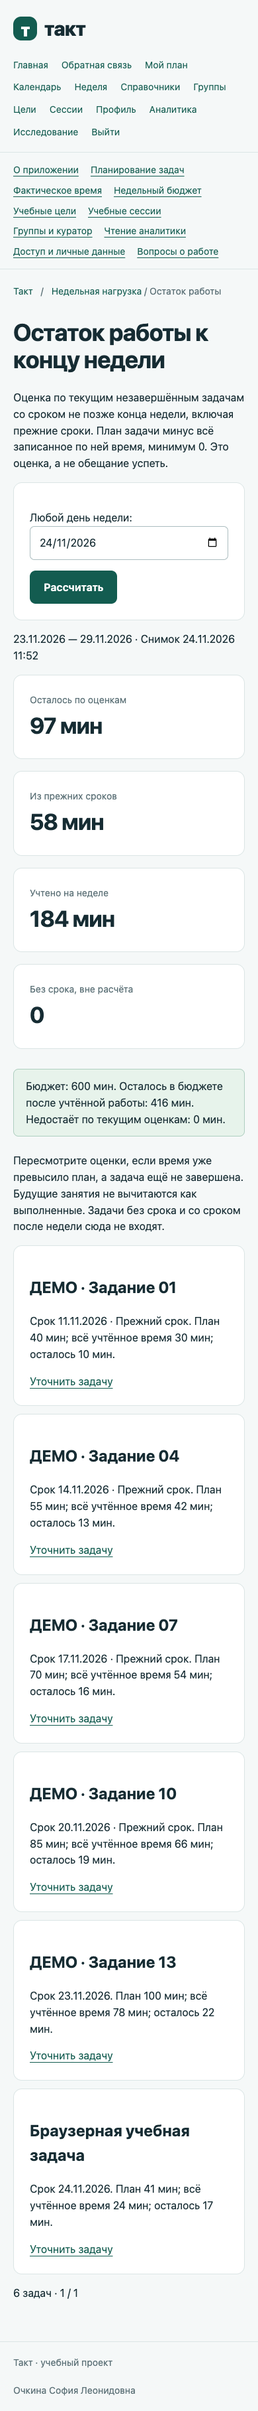
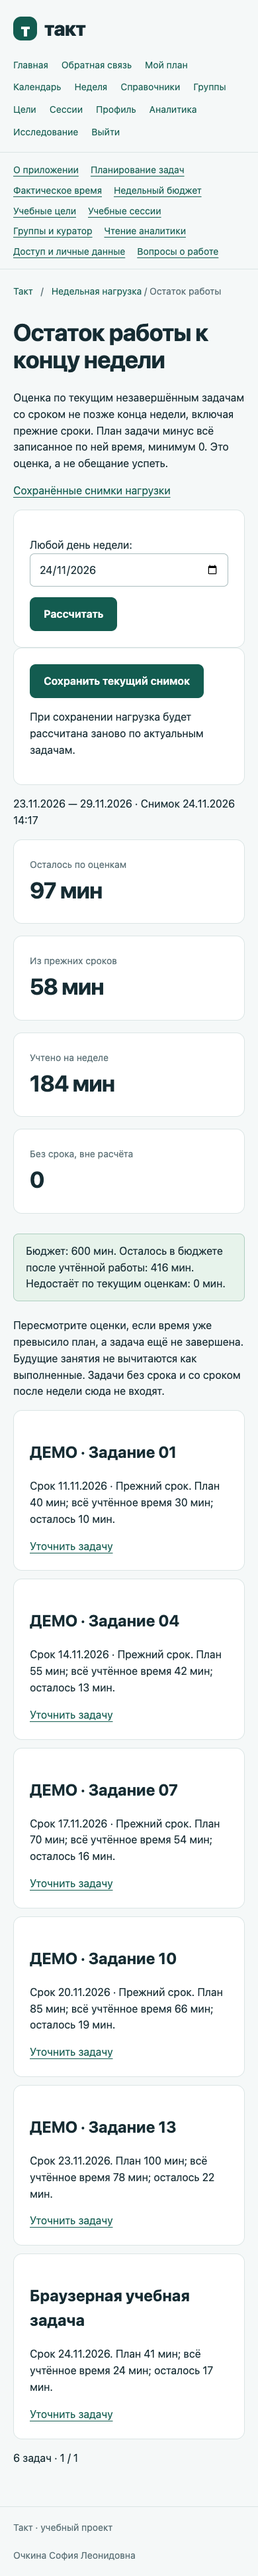
Проверить неизменяемые снимки и бюджет недели в Chrome

diff --git a/planner/templates/planner/snapshot_detail.html b/planner/templates/planner/snapshot_detail.html
@@ -5,4 +5,4 @@
 <p class="muted">Это снимок текущих оценок открытых задач; он не восстанавливает прошлый план и не измеряет качество обучения.</p>
 {% for row in page %}<article class="card"><h2>{{ row.title }}</h2><p>Срок {{ row.due_date }} · План {{ row.planned }} мин · Учтено {{ row.spent }} мин · Осталось {{ row.remaining }} мин.</p></article>{% empty %}<p class="card">Открытых задач с этими сроками не было.</p>{% endfor %}
 <nav class="actions" aria-label="Страницы задач снимка">{% if page.has_previous %}<a href="?page={{ page.previous_page_number }}">Предыдущая</a>{% endif %}<p>{{ page.number }} / {{ page.paginator.num_pages }}</p>{% if page.has_next %}<a href="?page={{ page.next_page_number }}">Следующая</a>{% endif %}</nav>
-<form method="post" action="{% url 'snapshot_delete' snapshot.pk %}" class="card">{% csrf_token %}<label><input type="checkbox" name="confirm" value="{{ snapshot.pk }}" required> Подтверждаю удаление этого снимка</label><button class="button secondary">Удалить снимок</button></form>{% endblock %}
+<form method="post" action="{% url 'snapshot_delete' snapshot.pk %}" class="card snapshot-confirm">{% csrf_token %}<label><input type="checkbox" name="confirm" value="{{ snapshot.pk }}" required> Подтверждаю удаление этого снимка</label><button class="button secondary">Удалить снимок</button></form>{% endblock %}

diff --git a/planner/static/planner/app.css b/planner/static/planner/app.css
@@ -90,3 +90,5 @@ input[type=checkbox]{width:auto;accent-color:var(--accent)}.invite-code{overflow
 .month-calendar{display:grid;grid-template-columns:repeat(7,minmax(0,1fr));gap:8px}.calendar-day{padding:12px;min-width:0;overflow-wrap:anywhere}.calendar-day h3{font-size:15px;margin:0}.calendar-day p{font-size:13px}.calendar-item{border-top:1px solid var(--line);padding-top:8px}.calendar-day.is-today{border:2px solid var(--accent)}@media(max-width:1100px){.month-calendar{grid-template-columns:repeat(2,minmax(0,1fr))}.calendar-pad{display:none}}@media(max-width:600px){.month-calendar{grid-template-columns:1fr}}
 
 .brand{flex-shrink:0}.header nav{min-width:0}.card,.notice,main h1{overflow-wrap:anywhere}.table-wrap{max-width:100%;overflow-x:auto;margin:24px 0;border:1px solid var(--line);border-radius:12px;background:white}.table-wrap table{width:100%;border-collapse:collapse;text-align:left}.table-wrap th,.table-wrap td{padding:12px 15px;vertical-align:top;border-bottom:1px solid var(--line)}.table-wrap th{background:#e6f1ef}@media(max-width:650px){h1{font-size:36px;letter-spacing:-1px}.table-wrap table{min-width:620px}}
+
+.snapshot-confirm label { display: block; margin-bottom: 1rem; }

diff --git a/scripts/verify_browser.py b/scripts/verify_browser.py
@@ -98,6 +98,13 @@ def verify(app_python, output):
                     workload=page.locator('article').filter(has=page.get_by_role('heading',name='Браузерная учебная задача',exact=True))
                     assert 'осталось 16 мин' in workload.inner_text()
                     shot('workload-desktop.png');checks.append('remaining_work_uses_all_actual_time')
+                    page.get_by_role('button',name='Сохранить текущий снимок',exact=True).click();page.wait_for_url('**/workload/snapshots/*/')
+                    snapshot_path=page.url.removeprefix(url)
+                    with page.expect_download() as result:page.get_by_role('link',name='Скачать сохранённый снимок JSON',exact=True).click()
+                    snapshot_file=target/'snapshot.json';result.value.save_as(snapshot_file)
+                    frozen=json.loads(snapshot_file.read_text())
+                    assert next(row for row in frozen['payload']['rows'] if row['task_id']==int(task_id))['remaining']==16
+                    shot('snapshot-desktop.png');checks.append('workload_snapshot_download')
                     visit('/tasks/')
                     item=page.locator('article').filter(has=page.get_by_role('heading',name='Браузерная учебная задача',exact=True))
                     old_state=item.locator('form').evaluate('(form)=>Object.fromEntries(new FormData(form))')
@@ -118,6 +125,8 @@ def verify(app_python, output):
                     assert stale_edit.status==200 and 'уже изменилась' in stale_edit.text()
                     visit(f'/tasks/{task_id}/edit/');assert page.locator('#id_planned_minutes').input_value()=='41'
                     checks.append('old_editor_cannot_overwrite_newer_task')
+                    assert context.request.get(url+snapshot_path+'?format=json').json()==frozen
+                    checks.append('snapshot_unchanged_after_task_edit')
                     visit('/research/')
                     with page.expect_download() as result:page.get_by_role('link',name='Скачать данные сравнения JSON',exact=True).click()
                     history_json=target/'history-comparison.json';result.value.save_as(history_json)
@@ -145,8 +154,15 @@ def verify(app_python, output):
                     ics=output/'study-browser.ics';result.value.save_as(ics);assert b'BEGIN:VCALENDAR' in ics.read_bytes();checks.append('calendar_and_ics_download')
                     for path in ['/week/','/goals/','/groups/','/references/','/profile/','/research/']:visit(path)
                     checks.append('private_navigation')
+                    visit('/week/')
+                    old_budget=page.locator('main form').evaluate('(form)=>Object.fromEntries(new FormData(form))')
+                    page.locator('#id_capacity_minutes').fill('600');page.get_by_role('button',name='Сохранить бюджет',exact=True).click();page.wait_for_url('**/week/?week=*')
+                    rejected=context.request.post(page.url,form=old_budget,headers={'Referer':page.url})
+                    assert rejected.status==200 and 'уже изменён в другой вкладке' in rejected.text()
+                    page.reload();assert page.locator('#id_capacity_minutes').input_value()=='600'
+                    checks.append('stale_week_budget_rejected')
                     page.set_viewport_size({'width':390,'height':844})
-                    for path,name in [('/tasks/','tasks-mobile.png'),('/calendar/','calendar-mobile.png'),('/research/','research-mobile.png'),('/workload/','workload-mobile.png'),('/tasks/history/','history-mobile.png'),('/analytics/subjects/','subjects-mobile.png')]:
+                    for path,name in [('/tasks/','tasks-mobile.png'),('/workload/snapshots/','snapshots-mobile.png'),(snapshot_path,'snapshot-mobile.png'),('/calendar/','calendar-mobile.png'),('/research/','research-mobile.png'),('/workload/','workload-mobile.png'),('/tasks/history/','history-mobile.png'),('/analytics/subjects/','subjects-mobile.png')]:
                         visit(path)
                         if path=='/research/':
                             assert page.locator('#id_after_end').input_value()==date.today().isoformat()

diff --git a/docs/ACCEPTANCE.md b/docs/ACCEPTANCE.md
@@ -17,3 +17,5 @@
 24ноября:93 тестаSQLite пройдены(одинPGskip), миграции согласованы. Chrome17 сценариев проверили неизменяемый24-минутный итог, старую форму редактора, фактическую историю с частичным покрытием вJSON и распределение по дисциплинам/CSV/null-переход. Четыре новые desktop/mobile-области просмотрены. Аудит2019 смешанных единиц/13предметных таблиц; формальная оценка логических строк отдельно. Новые сценарии вPG в этом блоке пока не повторялись.
 
 Новый полный срезPG24ноября: все93 без пропусков, включая новые отчёты и сценарии текущего блока; подробности вPOSTGRESQL.md.
+
+24 ноября: недельный бюджет требует expected_revision; старые вкладки не перезаписывают бюджет. Снимок нагрузки фиксирует оценки/учёт только при явном сохранении, имеет SHA256 и JSON-выгрузку, не меняется после редактирования/удаления задач. Личные снимки не восстанавливают прежние планы задним числом. WorkloadSnapshot исключён из консервативного числа предметных таблиц.
